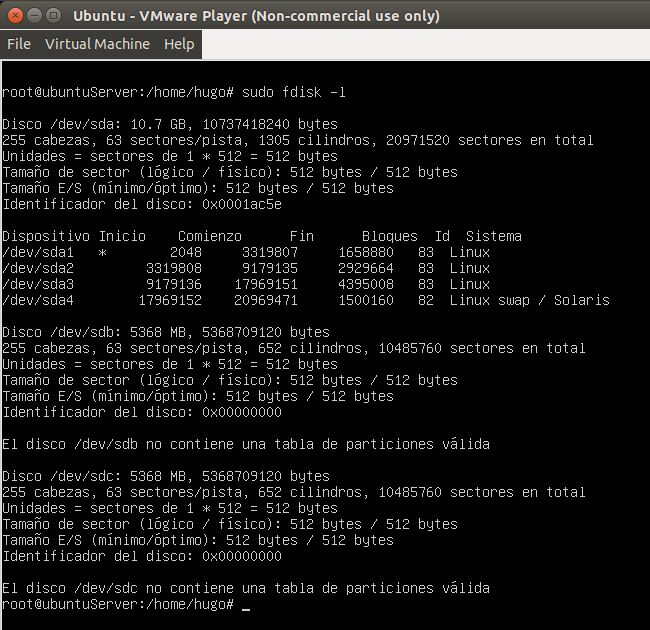
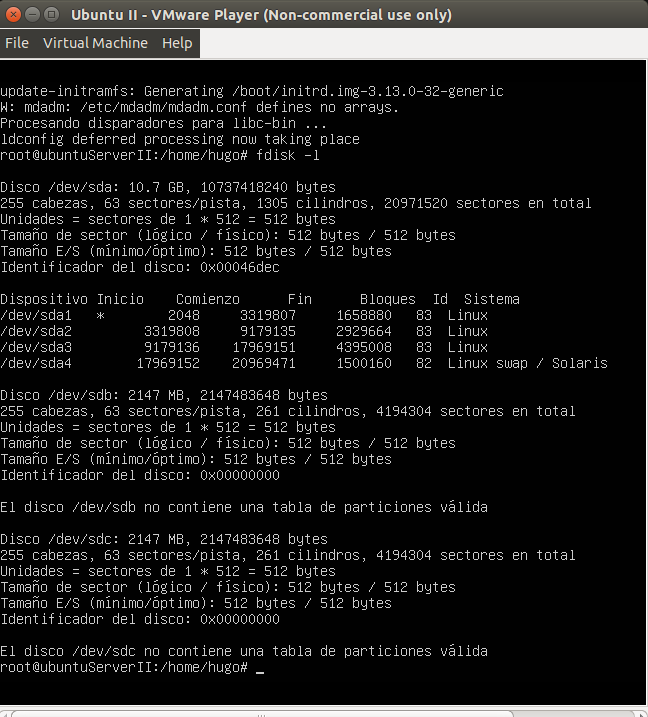
practica6

Changed region(s): [[0.0, 0.0, 1.0, 1.0], [0.5864, 0.2111, 0.9259, 0.2413], [0.8642, 0.2714, 0.8951, 0.3016]]

diff --git a/P6_hugo-barzano-cruz.md b/P6_hugo-barzano-cruz.md
@@ -10,34 +10,58 @@
 
 ## Configuración del RAID por software
 
-**Paso 1:** Intalar software necesario para configurar el raid mediante la intrución 
+**Paso 1:**Agregar 2 discos duros para montar el RAID e intalar el software necesario para configurar el RAID mediante la instrución
+ 
 	sudo apt-get install mdadm
-**Paso 2:** Informacion de los discos
+![imagen](añadir_discos)
+
+**Paso 2:** Comprobar que los discos han sido añadidos al sistema y darles formato, mediante los comandos:
+
 	sudo fdisk -l
-![imagen] (https://github.com/hugobarzano/swap2015/blob/master/capturas_p6/fdisk.png?raw=true)
+	fdisk /dev/sdb
+	fdisk /dev/sdb
+
+![imagen] (fdisk)
+s
 sda: disco principal
 sdb y sdc disco añadidos para el RAID
 
 **Paso 3:** Crear el RAID 1
 	sudo mdadm -C /dev/md0 --level=raid1 --raid-devices=2 /dev/sdb /dev/sdc
-![imagen](https://github.com/hugobarzano/swap2015/blob/master/capturas_p6/crear_raid.png?raw=true)
+![imagen](crear_raid)
+
 **paso 4:** Dar formato al dispositivo, crear el directorio que vamos a usar y motar la unidad RAID.
-	sudo mkfs /dev/md0
+	sudo mkfs.ext4 /dev/md0
 	sudo mkdir /datos
 	sudo mount /dev/md0 /datos
+
 **Paso 5:** Comprobar el estado del RAID
 	sudo mdadm --detail /dev/md0
-![imagen](https://github.com/hugobarzano/swap2015/blob/master/capturas_p6/details.png?raw=true)
 
-**Nota:** Se considera interesante automatizar el proceso de montar el dispositivo RAIZ para que se realice al arrancar el sistema. Para ello es necesario editar el archivo /etc/fstab y añadir:
+![imagen](details)
 
-![imagen](https://github.com/hugobarzano/swap2015/blob/master/capturas_p6/automatizar_montage.png?raw=true) 
+**Nota:** Se considera interesante automatizar el proceso de montar el dispositivo RAID para que se realice al arrancar el sistema. Para ello es necesario editar el archivo /etc/fstab y añadir:
+UUID=******* /datos ext4 defaults 0 0
+donde ******* es la id del RAID obtenido mediante:
+![imagen](id)
+y dejando el archivo tal que así:
+![imagen](automatizar_montage) 
+Tras reiniciar, podemos comprobar que el RAID esta funcinando correctamente. Ha pasado de md0 a md127.
+![imagen](reiniciar)
 	
 
 ## Prueba RAID 1
 
-**Paso 1:** Intarlar gestor de arranque y crear un directorio al que llamaremos *archivoPruebaRAID1*
+**Paso 1:** Me conecto mediante ssh a la maquina virtual y ejecuto el monitor watch -n2 cat /proc/mdstat
+![imagen](iniciar_monitor)
+**Paso 2:**  Simular un fallo den disco mediante el comando 
+	mdadm --manage --set-faulty /dev/md127 /dev/sdb
 ![imagen](raid1_1)
-**Paso 2:**  Con la maquina apagada, desconectar el disco sda
+**Paso 3:** Eliminar el disco duro con el que hemos simulado el fallo mediante el comando:
+	mdadm /dev/md127 -r /dev/sdb
 ![imagen](raid1_2)
+**Paso 4:** Añadir el disco duro que acabamos de eliminar mediante el comando mdadm /dev/md127 -a /dev/sbd 
+![imagen](raid1_3)
+**Paso 5:** Comprobamos que todo vuelve ala normalidad
+![imagen](raid1_4)
     
